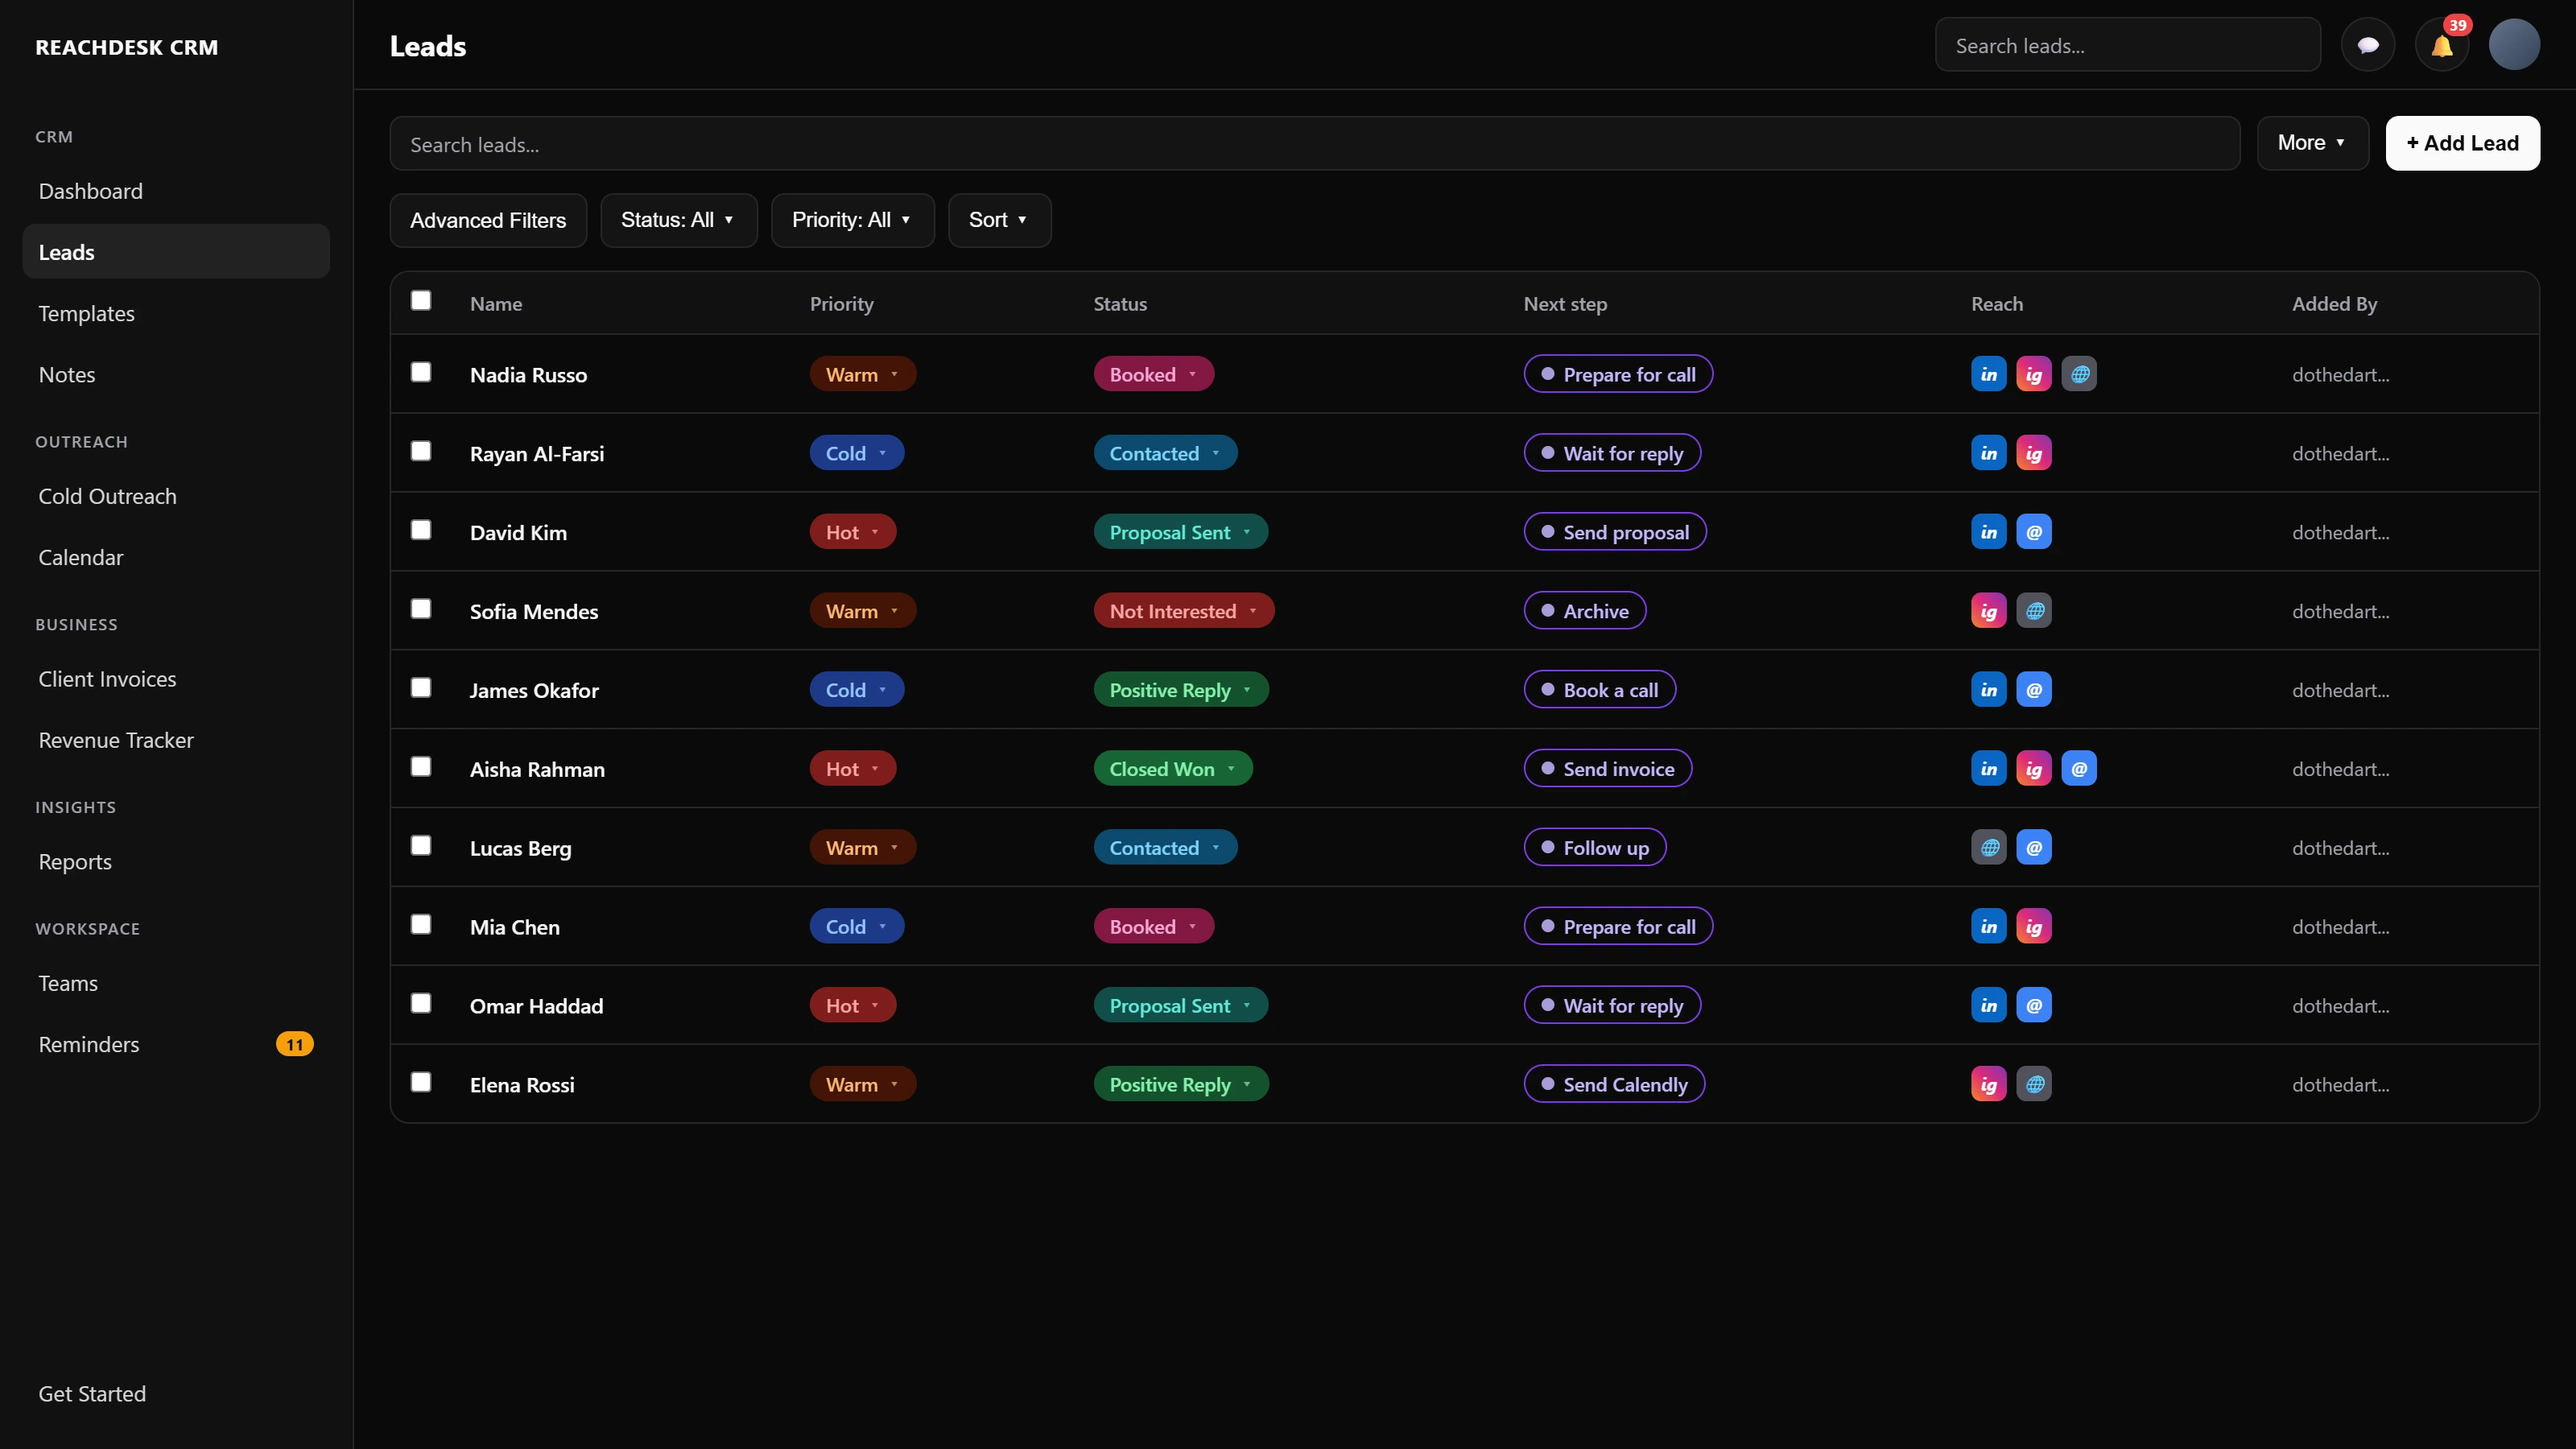
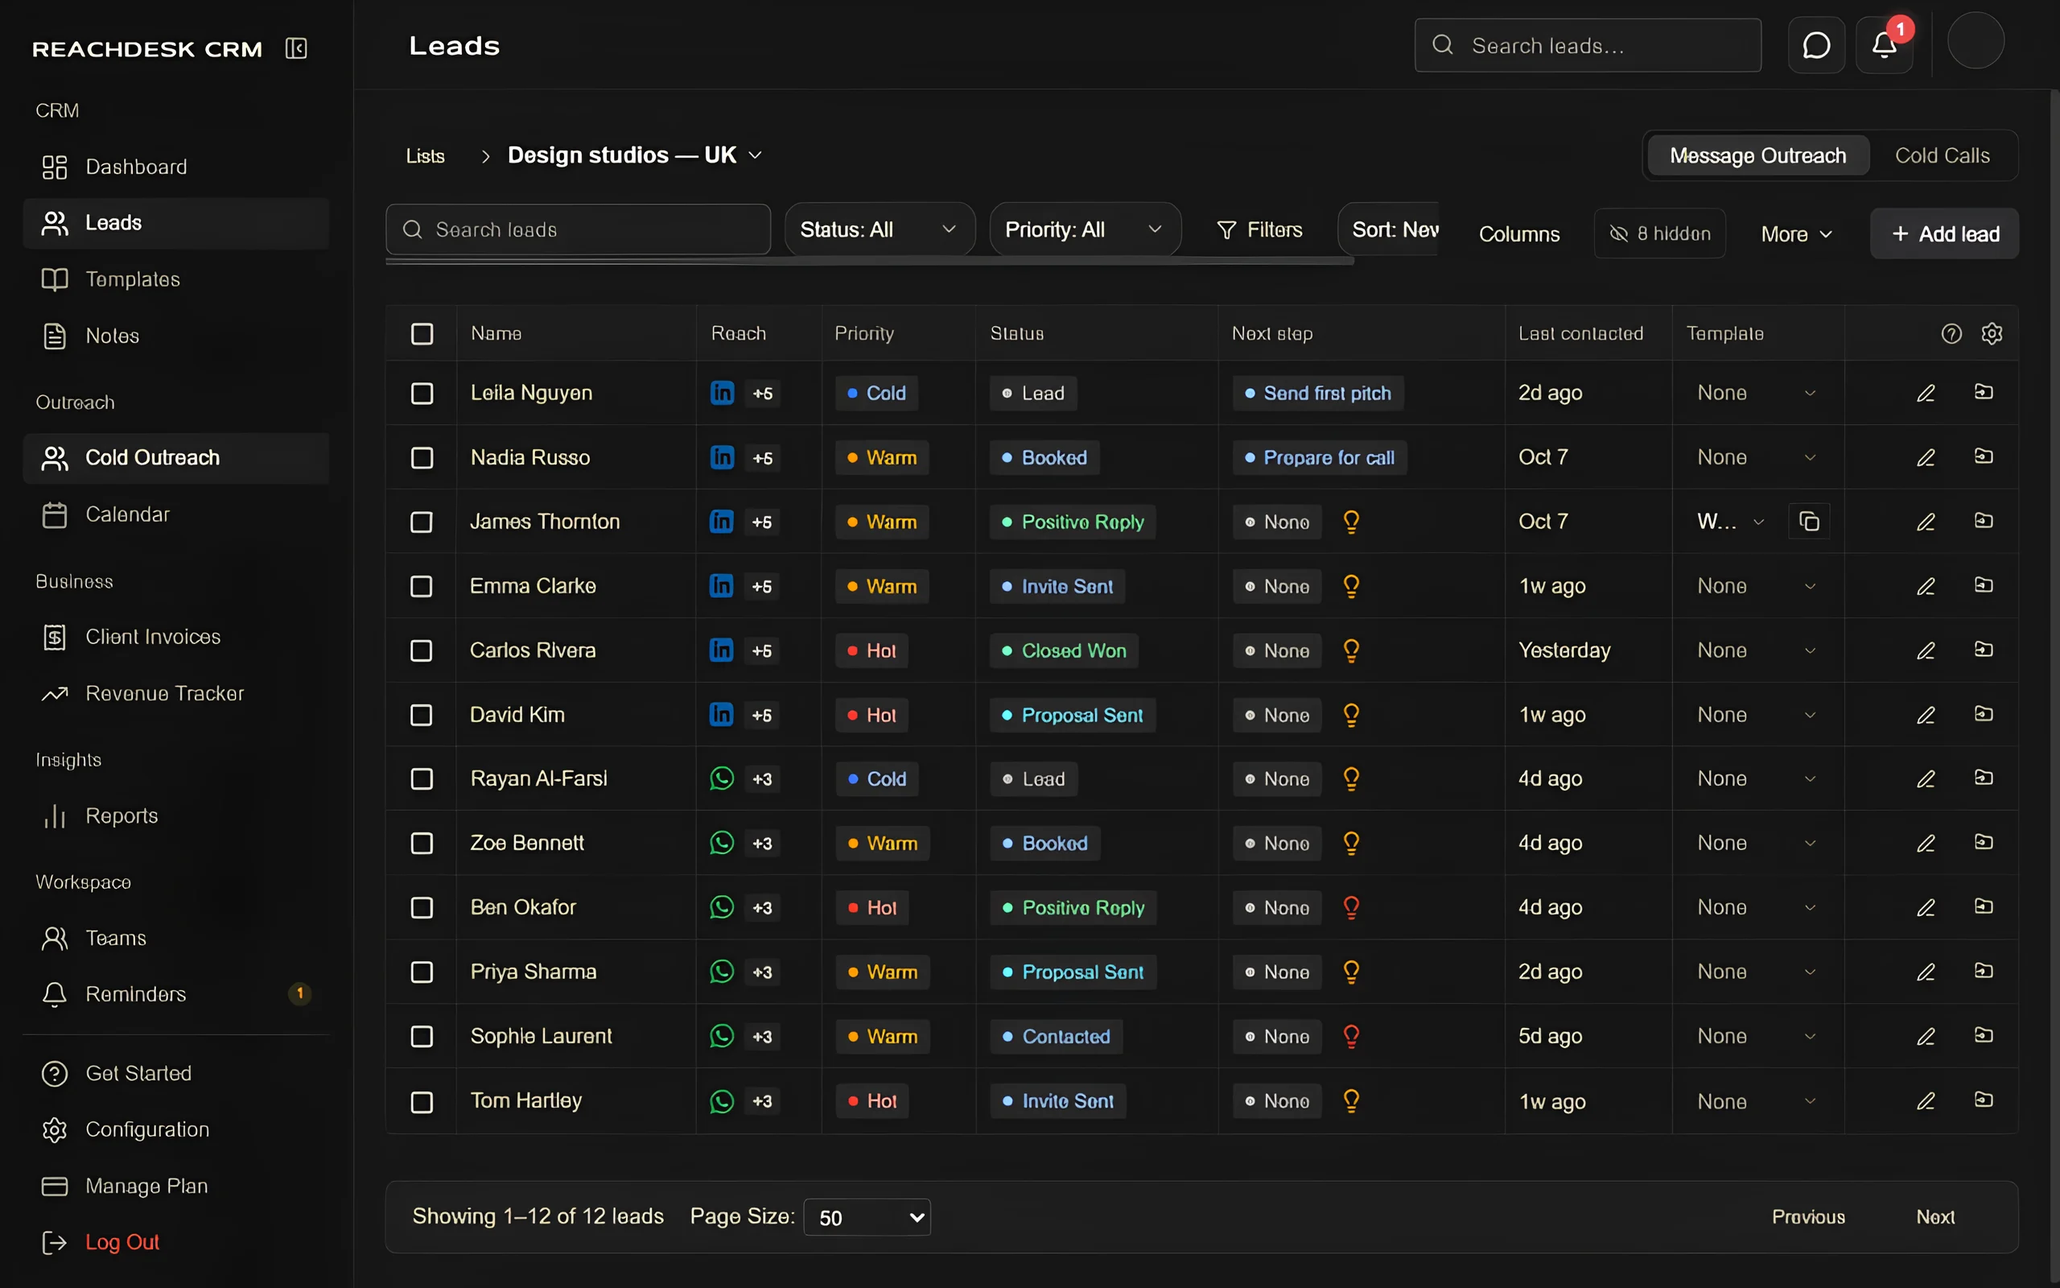
feat: add dashboard, homepage, marketing assets, and design system stylesheet

diff --git a/src/components/Dashboard.jsx b/src/components/Dashboard.jsx
@@ -600,7 +600,7 @@ export default function Dashboard({ currentUser, onSelectLead }) {
         </div>
         <div className="dashboard-kpi-tile">
           <span className="dashboard-kpi-title">Collected</span>
-          <span className="dashboard-kpi-value" title={revenueTooltip}>{hasForeign ? '≈ ' : ''}{new Intl.NumberFormat('en-US', { style: 'currency', currency: currentUser?.default_currency || 'USD', currencyDisplay: 'code', maximumFractionDigits: 0 }).format(totalRevenueCollected)}</span>
+          <span className="dashboard-kpi-value" title={revenueTooltip}>{new Intl.NumberFormat('en-US', { style: 'currency', currency: currentUser?.default_currency || 'USD', currencyDisplay: 'code', maximumFractionDigits: 0 }).format(totalRevenueCollected)}</span>
           <span className="dashboard-kpi-subtext">this month{revenueNote ? ` · ${revenueNote}` : ''}</span>
         </div>
       </div>
@@ -733,7 +733,7 @@ export default function Dashboard({ currentUser, onSelectLead }) {
               <button className="dashboard-link" onClick={() => navigate('/settings')}>Set target</button>
             </div>
             <div className="dashboard-revenue-amount">
-              <span className="dashboard-revenue-value" title={revenueTooltip}>{hasForeign ? '≈ ' : ''}{new Intl.NumberFormat('en-US', { style: 'currency', currency: currentUser?.default_currency || 'USD', currencyDisplay: 'code', maximumFractionDigits: 0 }).format(totalRevenueCollected)}</span>
+              <span className="dashboard-revenue-value" title={revenueTooltip}>{hasForeign ? '≈\u00A0' : ''}{new Intl.NumberFormat('en-US', { style: 'currency', currency: currentUser?.default_currency || 'USD', currencyDisplay: 'code', maximumFractionDigits: 0 }).format(totalRevenueCollected)}</span>
               <span className="dashboard-revenue-subtext">collected this month{revenueNote ? ` · ${revenueNote}` : ''}</span>
             </div>
             <div className="dashboard-revenue-chart">

diff --git a/src/index.css b/src/index.css
@@ -5755,7 +5755,7 @@ select option {
 }
 
 .hp-hero-inner {
-  max-width: 1280px;
+  max-width: 1120px; /* same as nav + sections so the left edges line up */
   margin: 0 auto;
   display: grid;
   grid-template-columns: 1fr;
@@ -6106,9 +6106,34 @@ select option {
   width: 100%;
   height: auto;
   display: block;
-  border-radius: 10px;
+  border-radius: 3px;
   border: 1px solid var(--border);
   background: var(--bg-card);
+}
+
+/* Screenshots sit on a fixed-ratio "stage" so every card in a row lines up,
+   whatever the screenshot's own shape. object-fit: contain = nothing is cropped. */
+img.hp-feature-media,
+img.hp-step-media {
+  box-sizing: border-box;
+  object-fit: contain;
+  object-position: center;
+  background: var(--bg-card);
+}
+
+img.hp-feature-media {
+  aspect-ratio: 16 / 10;
+  padding: clamp(14px, 2.2vw, 28px);
+}
+
+img.hp-step-media {
+  aspect-ratio: 4 / 3;
+  padding: clamp(12px, 1.6vw, 20px);
+}
+
+.hp-feature-card > .hp-feature-media,
+.hp-feature-card > .hp-ui-mock-svg {
+  margin-bottom: var(--space-4);
 }
 
 .hp-integrations-note {

diff --git a/src/lib/marketingAssets.js b/src/lib/marketingAssets.js
@@ -5,8 +5,8 @@
 export const MARKETING_MEDIA = {
   heroVideo: '/marketing/hero-demo.mp4',
   heroVideoWebm: '/marketing/hero-demo.webm',
-  heroLight: '/marketing/hero-light.png',
-  heroDark: '/marketing/hero-dark.png',
+  heroLight: '/marketing/hero-light.webp',
+  heroDark: '/marketing/hero-dark.webp',
   paywallBg: '/marketing/paywall-bg.webp',
 };
 
@@ -15,6 +15,7 @@ export const FEATURE_MEDIA = {
   reminders: { dark: '/marketing/feature-reminders-dark.webp', light: '/marketing/feature-reminders-light.webp' },
   templates: { dark: '/marketing/feature-templates-dark.webp', light: '/marketing/feature-templates-light.webp' },
   revenue: { dark: '/marketing/feature-revenue-dark.webp', light: '/marketing/feature-revenue-light.webp' },
+  calls: { dark: '/marketing/feature-calls-dark.webp', light: '/marketing/feature-calls-light.webp' },
 };
 
 export const HOW_IT_WORKS_MEDIA = {

diff --git a/src/components/Homepage.jsx b/src/components/Homepage.jsx
@@ -205,7 +205,7 @@ export default function Homepage({ currentUserEmail }) {
           <div className="hp-hero-media hp-hero-enter hp-hero-enter-3">
             <img
               key={theme === 'dark' ? 'hero-dark-orig' : 'hero-light-orig'}
-              src={`${theme === 'dark' ? HERO_DARK : HERO_LIGHT}?v=orig2`}
+              src={`${theme === 'dark' ? HERO_DARK : HERO_LIGHT}?v=oct26`}
               alt={theme === 'dark' ? 'ReachDesk CRM leads table in dark mode' : 'ReachDesk CRM leads table in light mode'}
               className="hero-image"
               width={1024}
